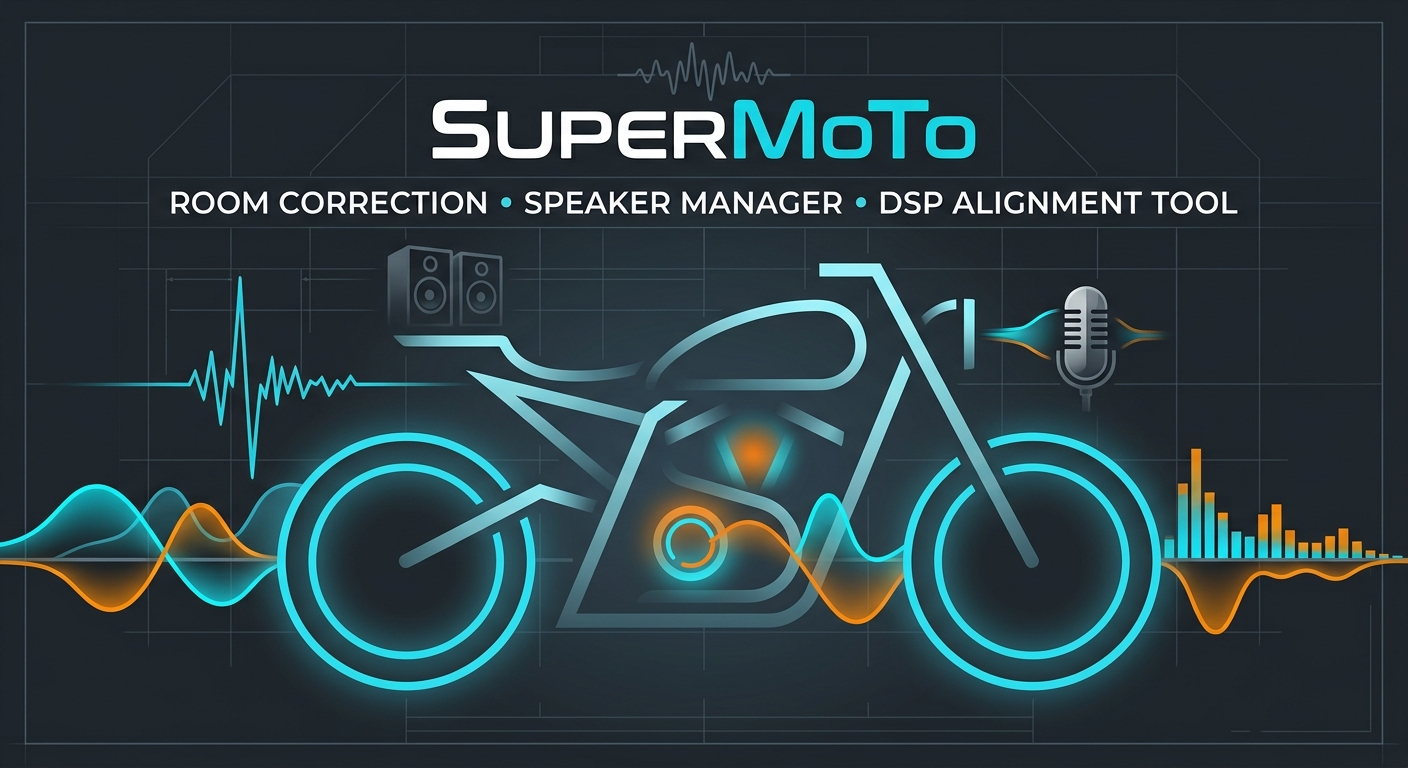
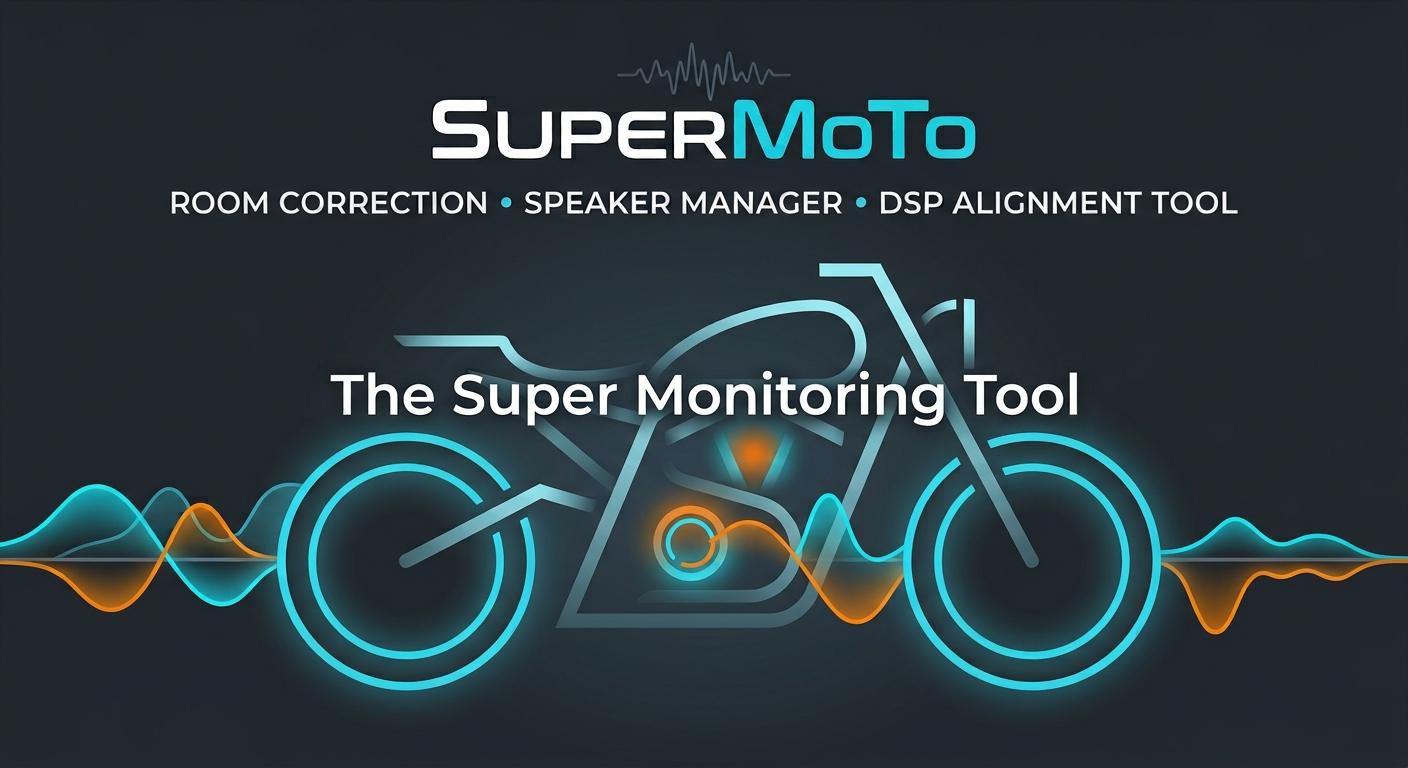
Change readme ans splash

Changed region(s): [[0.0938, 0.375, 0.8438, 0.625], [0.8125, 0.5625, 1.0, 0.75], [0.25, 0.3125, 0.375, 0.4062]]

diff --git a/README.md b/README.md
@@ -1,5 +1,7 @@
 # SuperMoTo
 
+**The Super Monitoring Tool**
+
 ![SuperMoTo matrix view](doc/figures/SuperMoTo_matrix_view.png)
 
 SuperMoTo is an open-source audio plugin (VST3, AU and Standalone) that puts a
